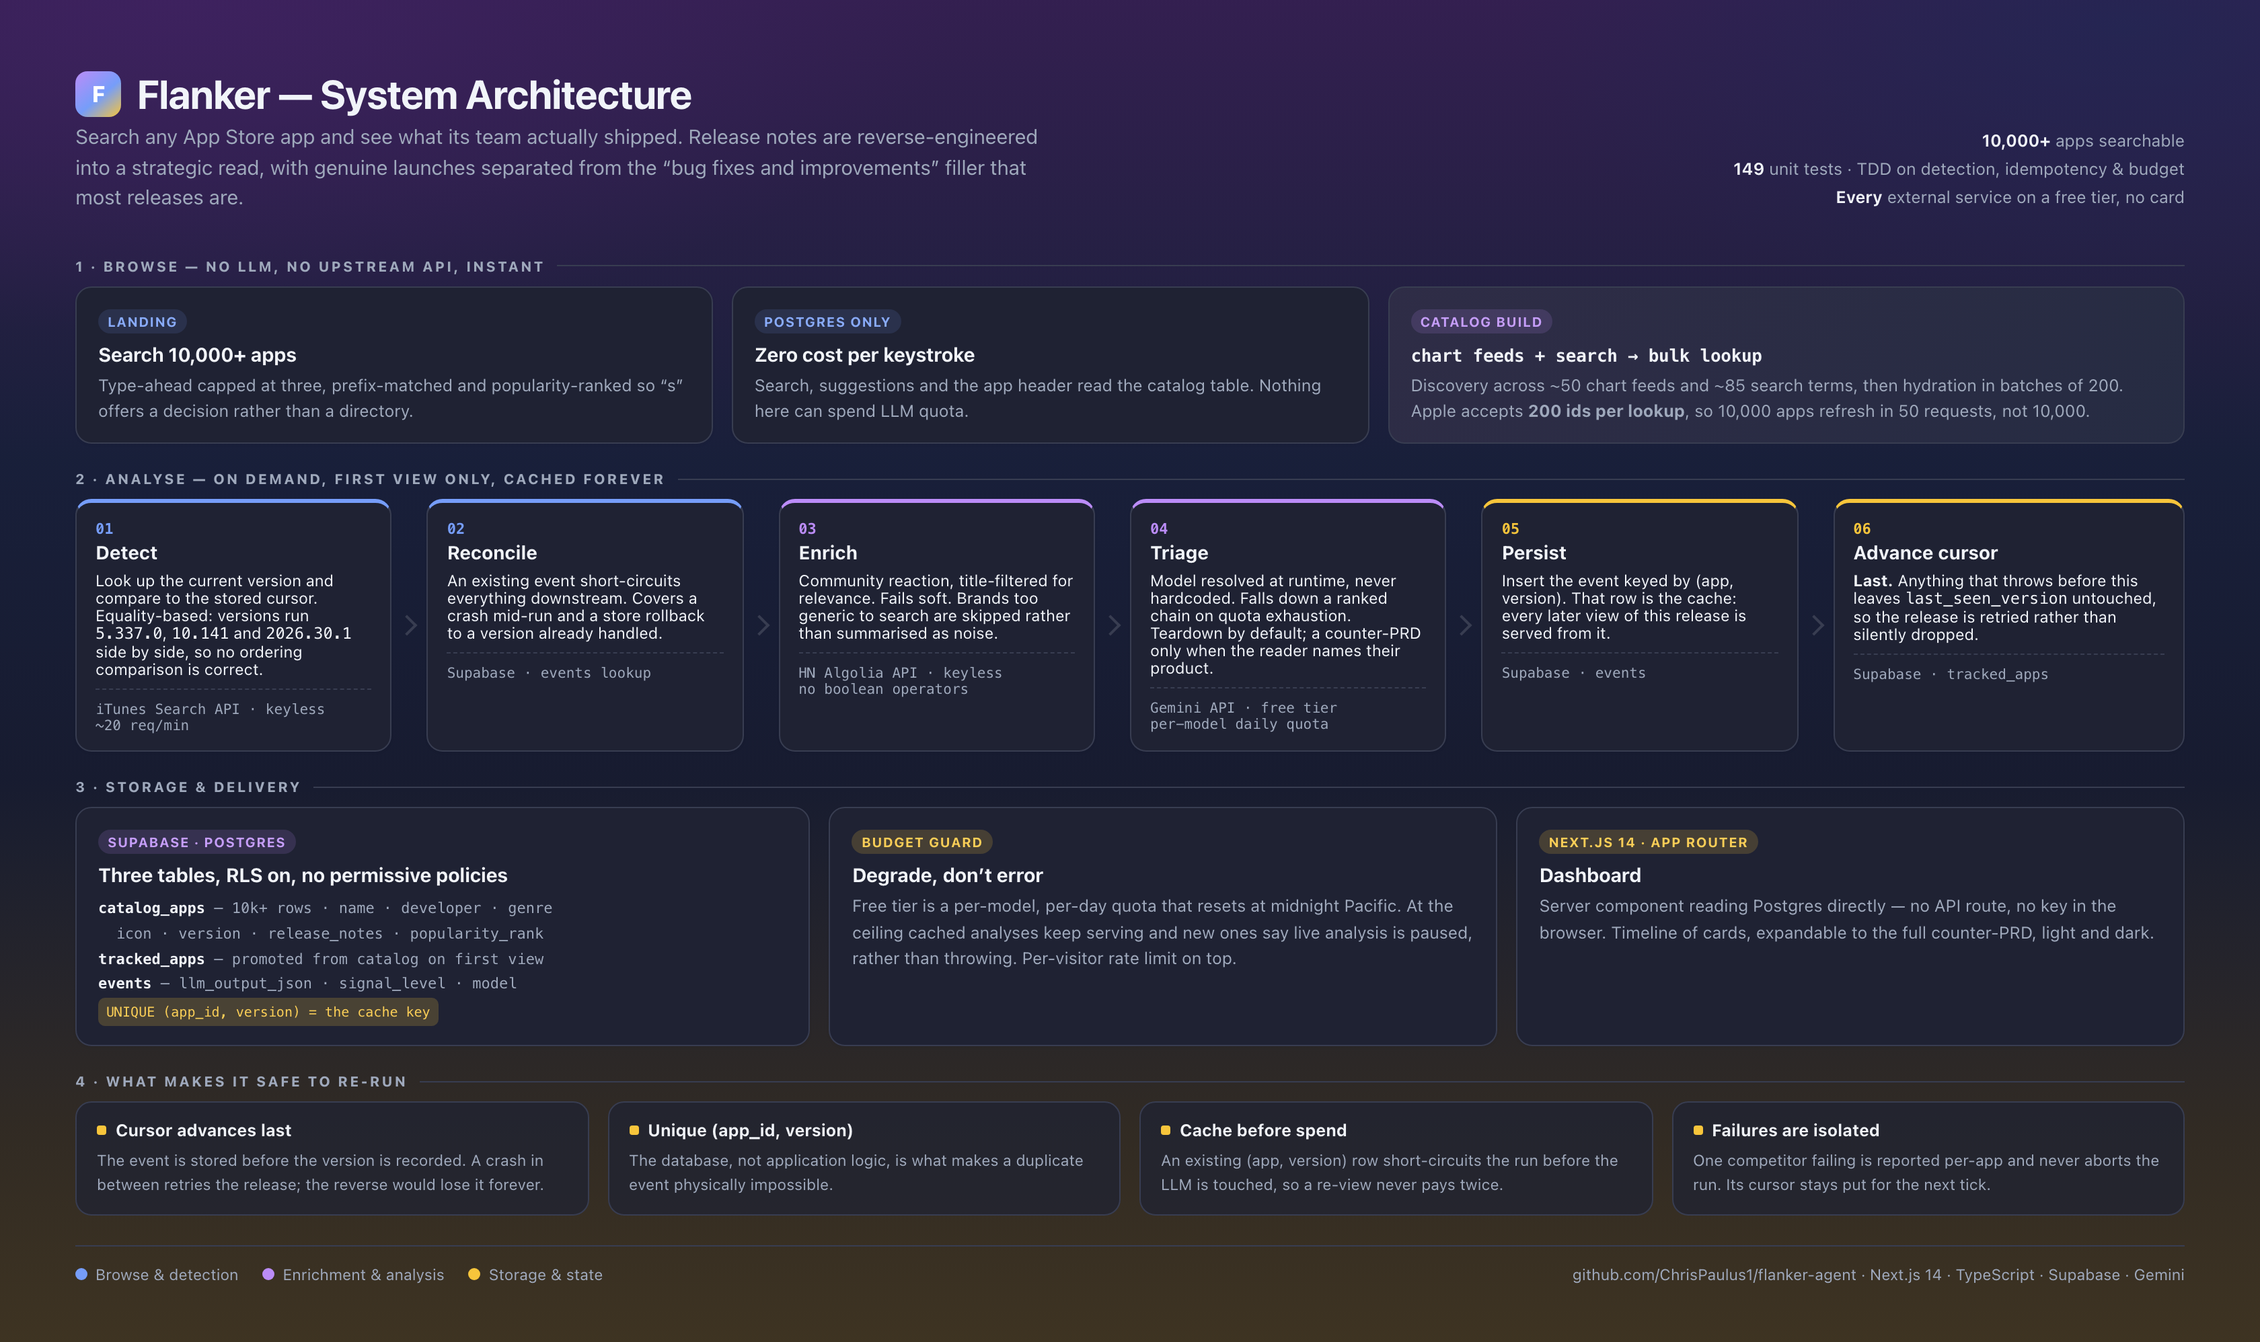
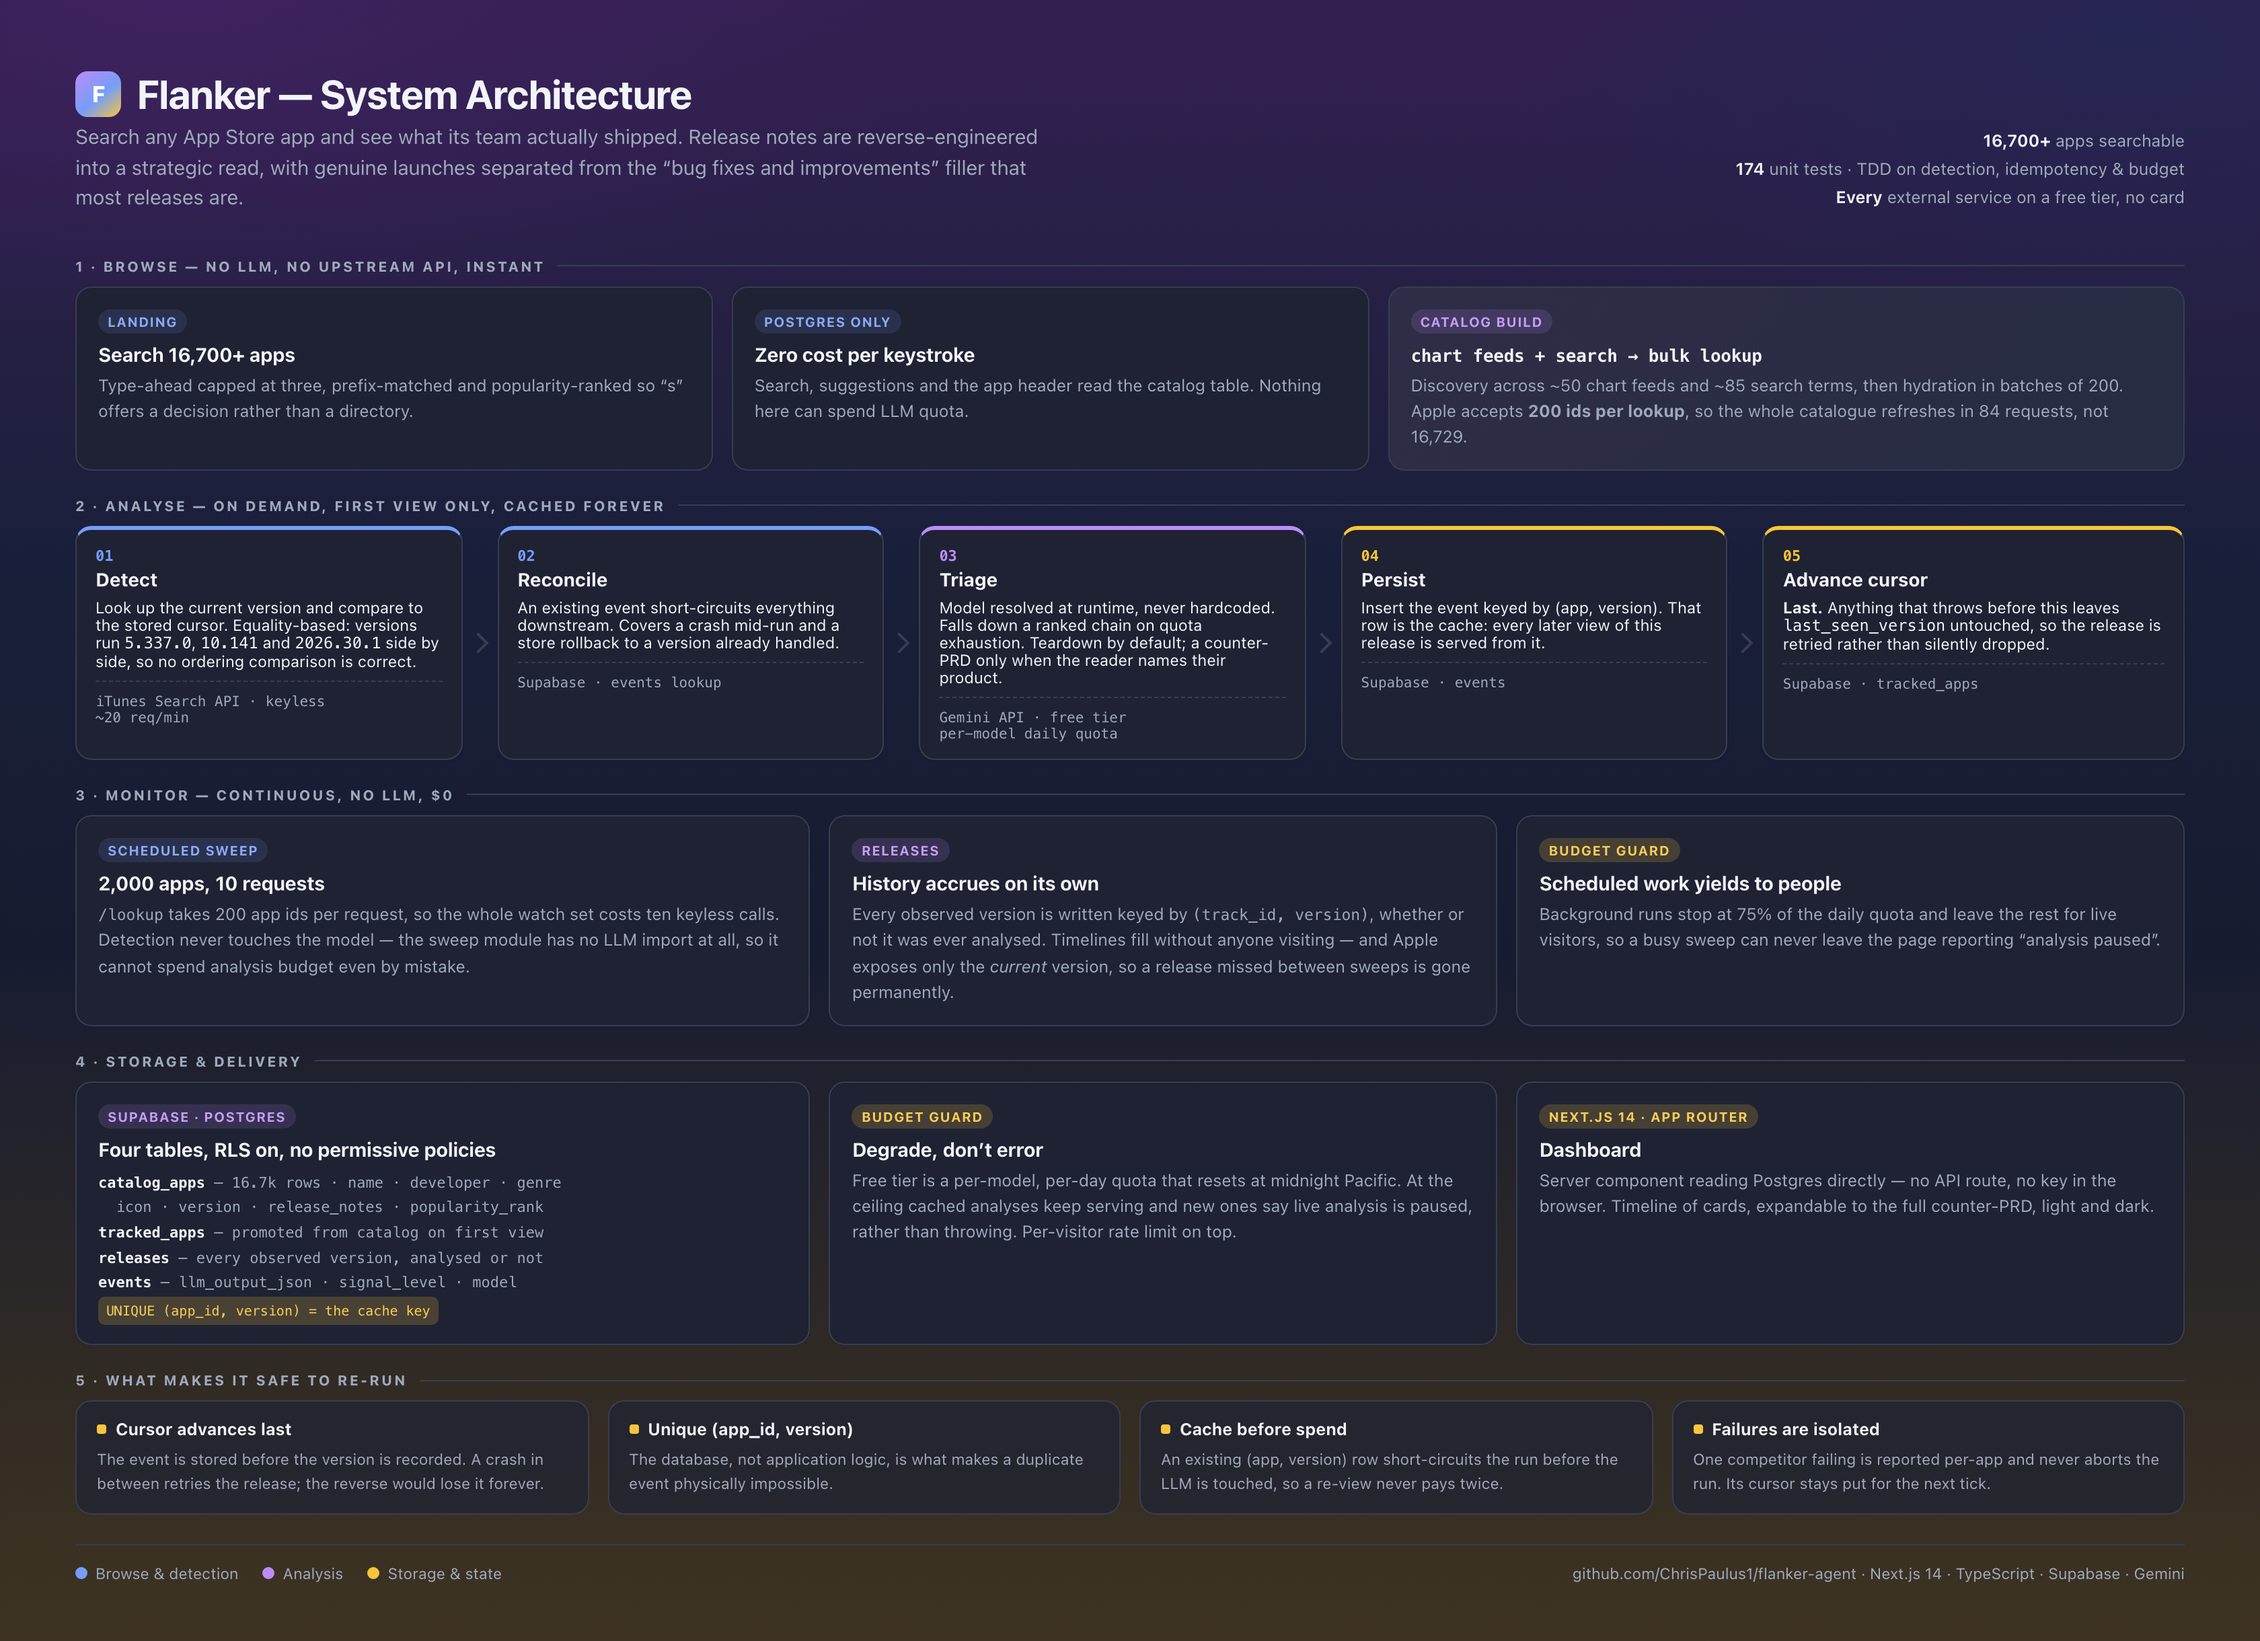
Bring the architecture diagram and repo in line with the shipped system
The diagram still showed an "Enrich" step for community reaction, which was
removed, and omitted continuous monitoring entirely — the layer that now
does the most work. Added a Monitor band covering the batched sweep, the
releases table and the budget reserve, dropped the dead step, and
renumbered the pipeline to five stages.

Its numbers had also drifted: 10,000+ searchable and 149 tests, against an
actual 16,729 and 174. Storage said three tables and didn't list releases.
All corrected and re-rendered, and the README alt text now matches what the
image actually shows rather than describing a six-stage pipeline with five
boxes in it.

Also removed the last of the email plumbing — markEmailSent, emailSentAt
and the email_sent_at column read. Nothing had called them since the email
layer came out; they were only kept alive by the fakes implementing an
interface that still declared them.

diff --git a/docs/architecture.html b/docs/architecture.html
@@ -131,7 +131,7 @@
   .endpoint code { font-family: ui-monospace, SFMono-Regular, Menlo, monospace; font-size: 13px; }
 
   /* ---------- pipeline ---------- */
-  .pipeline { display: grid; grid-template-columns: repeat(6, 1fr); gap: 0; align-items: stretch; }
+  .pipeline { display: grid; grid-template-columns: repeat(5, 1fr); gap: 0; align-items: stretch; }
   .step { position: relative; padding-right: 26px; }
   .step:last-child { padding-right: 0; }
   .step::after {
@@ -207,8 +207,8 @@
       </p>
     </div>
     <div class="meta">
-      <b>10,000+</b> apps searchable<br />
-      <b>149</b> unit tests · TDD on detection, idempotency &amp; budget<br />
+      <b>16,700+</b> apps searchable<br />
+      <b>174</b> unit tests · TDD on detection, idempotency &amp; budget<br />
       <b>Every</b> external service on a free tier, no card
     </div>
   </header>
@@ -219,7 +219,7 @@
     <div class="triggers">
       <div class="card">
         <span class="tag t-free">Landing</span>
-        <h3>Search 10,000+ apps</h3>
+        <h3>Search 16,700+ apps</h3>
         <p>Type-ahead capped at three, prefix-matched and popularity-ranked so &ldquo;s&rdquo; offers a decision rather than a directory.</p>
       </div>
       <div class="card">
@@ -232,7 +232,7 @@
         <h3><code>chart feeds + search &rarr; bulk lookup</code></h3>
         <p>
           Discovery across ~50 chart feeds and ~85 search terms, then hydration in batches of 200.
-          Apple accepts <b>200 ids per lookup</b>, so 10,000 apps refresh in 50 requests, not 10,000.
+          Apple accepts <b>200 ids per lookup</b>, so the whole catalogue refreshes in 84 requests, not 16,729.
         </p>
       </div>
     </div>
@@ -271,17 +271,6 @@
       <div class="step" style="--accent-col: var(--tangerine)">
         <div class="step-inner">
           <div class="num">03</div>
-          <h3>Enrich</h3>
-          <p>
-            Community reaction, title-filtered for relevance. Fails soft. Brands too generic to
-            search are skipped rather than summarised as noise.
-          </p>
-        </div>
-      </div>
-
-      <div class="step" style="--accent-col: var(--tangerine)">
-        <div class="step-inner">
-          <div class="num">04</div>
           <h3>Triage</h3>
           <p>
             Model resolved at runtime, never hardcoded. Falls down a ranked chain on quota
@@ -293,7 +282,7 @@
 
       <div class="step" style="--accent-col: var(--teal)">
         <div class="step-inner">
-          <div class="num">05</div>
+          <div class="num">04</div>
           <h3>Persist</h3>
           <p>
             Insert the event keyed by (app, version). That row is the cache: every later view of
@@ -305,7 +294,7 @@
 
       <div class="step" style="--accent-col: var(--teal)">
         <div class="step-inner">
-          <div class="num">06</div>
+          <div class="num">05</div>
           <h3>Advance cursor</h3>
           <p>
             <b>Last.</b> Anything that throws before this leaves <code>last_seen_version</code> untouched,
@@ -318,17 +307,51 @@
     </div>
   </div>
 
+  <!-- CONTINUOUS MONITORING -->
+  <div class="band">
+    <div class="band-label">3 &middot; Monitor &mdash; continuous, no LLM, $0</div>
+    <div class="outputs">
+      <div class="card">
+        <span class="tag t-free">Scheduled sweep</span>
+        <h3>2,000 apps, 10 requests</h3>
+        <p>
+          <code>/lookup</code> takes 200 app ids per request, so the whole watch set costs ten
+          keyless calls. Detection never touches the model &mdash; the sweep module has no LLM
+          import at all, so it cannot spend analysis budget even by mistake.
+        </p>
+      </div>
+      <div class="card">
+        <span class="tag t-key">releases</span>
+        <h3>History accrues on its own</h3>
+        <p>
+          Every observed version is written keyed by <code>(track_id, version)</code>, whether or not
+          it was ever analysed. Timelines fill without anyone visiting &mdash; and Apple exposes only
+          the <i>current</i> version, so a release missed between sweeps is gone permanently.
+        </p>
+      </div>
+      <div class="card">
+        <span class="tag t-out">Budget guard</span>
+        <h3>Scheduled work yields to people</h3>
+        <p>
+          Background runs stop at 75% of the daily quota and leave the rest for live visitors, so a
+          busy sweep can never leave the page reporting &ldquo;analysis paused&rdquo;.
+        </p>
+      </div>
+    </div>
+  </div>
+
   <!-- STORAGE + OUTPUTS -->
   <div class="band">
-    <div class="band-label">3 · Storage &amp; delivery</div>
+    <div class="band-label">4 · Storage &amp; delivery</div>
     <div class="outputs">
       <div class="card">
         <span class="tag t-key">Supabase · Postgres</span>
-        <h3>Three tables, RLS on, no permissive policies</h3>
+        <h3>Four tables, RLS on, no permissive policies</h3>
         <div class="schema">
-          <b>catalog_apps</b> — 10k+ rows · name · developer · genre<br />
+          <b>catalog_apps</b> — 16.7k rows · name · developer · genre<br />
           &nbsp;&nbsp;icon · version · release_notes · popularity_rank<br />
           <b>tracked_apps</b> — promoted from catalog on first view<br />
+          <b>releases</b> — every observed version, analysed or not<br />
           <b>events</b> — llm_output_json · signal_level · model<br />
           <span class="pill">UNIQUE (app_id, version) = the cache key</span>
         </div>
@@ -355,7 +378,7 @@
 
   <!-- GUARANTEES -->
   <div class="band">
-    <div class="band-label">4 · What makes it safe to re-run</div>
+    <div class="band-label">5 · What makes it safe to re-run</div>
     <div class="guarantees">
       <div class="g">
         <h4>Cursor advances last</h4>
@@ -379,7 +402,7 @@
   <footer>
     <div class="legend">
       <span><i class="dot" style="background: var(--indigo)"></i> Browse &amp; detection</span>
-      <span><i class="dot" style="background: var(--tangerine)"></i> Enrichment &amp; analysis</span>
+      <span><i class="dot" style="background: var(--tangerine)"></i> Analysis</span>
       <span><i class="dot" style="background: var(--teal)"></i> Storage &amp; state</span>
     </div>
     <div>github.com/ChrisPaulus1/flanker-agent · Next.js 14 · TypeScript · Supabase · Gemini</div>

diff --git a/src/lib/storage/repo.ts b/src/lib/storage/repo.ts
@@ -15,7 +15,7 @@ const APP_COLUMNS = "id, itunes_track_id, name, last_seen_version, last_checked_
 const CATALOG_COLUMNS =
   "itunes_track_id, name, developer, genre, icon_url, version, release_notes, release_date, popularity_rank";
 const EVENT_COLUMNS =
-  "id, app_id, version, release_notes, release_date, llm_output_json, signal_level, model, detected_at, email_sent_at";
+  "id, app_id, version, release_notes, release_date, llm_output_json, signal_level, model, detected_at";
 
 type AppRow = {
   id: string;
@@ -36,7 +36,6 @@ type EventRow = {
   signal_level: string;
   model: string | null;
   detected_at: string;
-  email_sent_at: string | null;
   // supabase-js types an embedded relation as an array even when the foreign
   // key guarantees at most one row, so accept both shapes and normalise.
   tracked_apps?: EmbeddedApp | EmbeddedApp[] | null;
@@ -73,7 +72,6 @@ function toEvent(row: EventRow): FlankerEvent {
     signalLevel: row.signal_level as SignalLevel,
     model: row.model,
     detectedAt: row.detected_at,
-    emailSentAt: row.email_sent_at,
   };
 }
 
@@ -156,11 +154,6 @@ export class SupabaseFlankerRepo implements FlankerRepo {
 
     if (error) fail("insertEvent", error);
     return toEvent(data as EventRow);
-  }
-
-  async markEmailSent(eventId: string, sentAt: string): Promise<void> {
-    const { error } = await this.db.from("events").update({ email_sent_at: sentAt }).eq("id", eventId);
-    if (error) fail("markEmailSent", error);
   }
 
   async advanceLastSeenVersion(appId: string, version: string, checkedAt: string): Promise<void> {

diff --git a/src/lib/storage/types.ts b/src/lib/storage/types.ts
@@ -35,7 +35,6 @@ export interface FlankerEvent {
   /** Which Gemini model produced llmOutput; null for rows written before this was tracked. */
   model: string | null;
   detectedAt: string;
-  emailSentAt: string | null;
 }
 
 export interface FlankerEventWithApp extends FlankerEvent {
@@ -75,7 +74,6 @@ export interface FlankerRepo {
   listTrackedApps(options?: { enabledOnly?: boolean }): Promise<TrackedApp[]>;
   findEvent(appId: string, version: string): Promise<FlankerEvent | null>;
   insertEvent(input: NewEventInput): Promise<FlankerEvent>;
-  markEmailSent(eventId: string, sentAt: string): Promise<void>;
   /** Advances the change-detection cursor. Only ever called after a full success. */
   advanceLastSeenVersion(appId: string, version: string, checkedAt: string): Promise<void>;
   /** Records that we looked, without moving the cursor. */

diff --git a/tests/fakes.ts b/tests/fakes.ts
@@ -101,16 +101,9 @@ export class FakeRepo implements FlankerRepo {
       signalLevel: input.signalLevel,
       model: input.model,
       detectedAt: "2026-07-30T00:00:00.000Z",
-      emailSentAt: null,
     };
     this.events.push(event);
     return event;
-  }
-
-  async markEmailSent(eventId: string, sentAt: string): Promise<void> {
-    this.calls.push("markEmailSent");
-    const event = this.events.find((e) => e.id === eventId);
-    if (event) event.emailSentAt = sentAt;
   }
 
   async advanceLastSeenVersion(appId: string, version: string, checkedAt: string): Promise<void> {

diff --git a/src/lib/llm/schema.ts b/src/lib/llm/schema.ts
@@ -4,7 +4,7 @@ import { z } from "zod";
  * The contract Flanker requires back from the LLM.
  *
  * This is the single source of truth for the shape: the prompt is generated
- * from it, the parser validates against it, and the dashboard and email both
+ * from it, the parser validates against it, and the dashboard
  * read the validated type. A model that returns something else is a failed
  * pipeline run, not a half-populated event row.
  */

diff --git a/src/lib/pipeline/run.ts b/src/lib/pipeline/run.ts
@@ -88,7 +88,7 @@ export async function runPipelineForApp(
       model,
     });
 
-    // The cursor advances only after the event is durably stored. With email
+    // The cursor advances only after the event is durably stored. The
     // gone there is no later step that can fail, but the ordering still
     // matters: a crash before the insert must leave the cursor untouched so
     // the release is retried rather than skipped.

diff --git a/src/app/api/analyze/route.ts b/src/app/api/analyze/route.ts
@@ -102,7 +102,7 @@ export async function POST(request: Request) {
       model,
     });
 
-    // Nothing is emailed any more, so the cursor can advance as soon as the
+    // The cursor advances as soon as the
     // event is stored — there is no later step left to fail.
     await repo.advanceLastSeenVersion(tracked.id, event.version, new Date().toISOString());
 

diff --git a/tests/history.test.ts b/tests/history.test.ts
@@ -24,7 +24,6 @@ function event(version: string, releaseDate: string | null, detectedAt = "2026-0
     signalLevel: "high",
     model: "test",
     detectedAt,
-    emailSentAt: null,
     app: { id: "app-1", name: "Test", itunesTrackId: 1 },
   };
 }

diff --git a/README.md b/README.md
@@ -17,7 +17,7 @@ Built with Next.js, Supabase, Gemini & Vercel Cron.
 <!-- GitHub swaps these automatically with the reader's colour scheme. -->
 <picture>
   <source media="(prefers-color-scheme: dark)" srcset="docs/architecture-dark.png">
-  <img src="docs/architecture.png" alt="Flanker system architecture: an instant browse path over a 10,000-app catalog, then on-demand analysis through a six-stage idempotent pipeline — detect, reconcile, triage, persist, advance cursor — backed by Supabase and Gemini, with a daily budget guard that degrades to cached results instead of erroring.">
+  <img src="docs/architecture.png" alt="Flanker system architecture: an instant browse path over a 16,700-app catalog, on-demand analysis through a five-stage idempotent pipeline — detect, reconcile, triage, persist, advance cursor — and a continuous monitoring sweep that checks 2,000 apps in ten keyless requests with no model calls, backed by Supabase and Gemini, with a daily budget guard that degrades to cached results instead of erroring.">
 </picture>
 
 The diagram is authored as HTML in [docs/architecture.html](docs/architecture.html) and rendered
